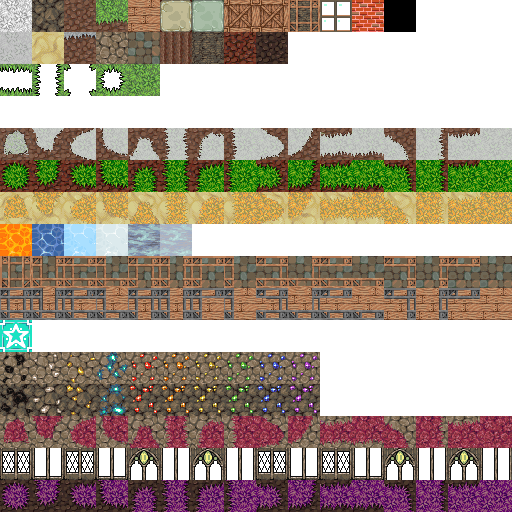
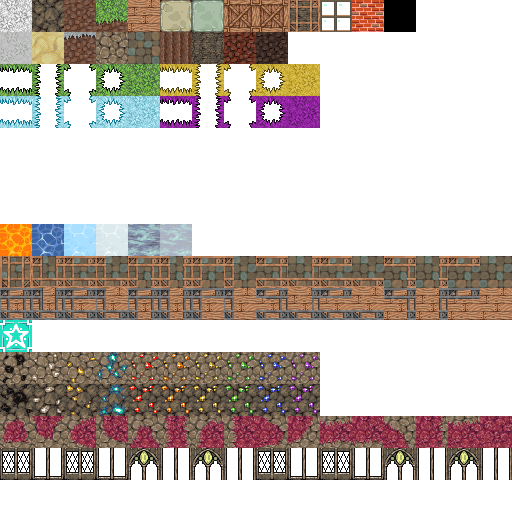
Restore variable grass block types

Changed region(s): [[0.0, 0.125, 1.0, 0.4375], [0.0, 0.9375, 1.0, 1.0]]

diff --git a/DwarfCorp/DwarfCorpXNA/Graphics/Primitives/VoxelListPrimitive.cs b/DwarfCorp/DwarfCorpXNA/Graphics/Primitives/VoxelListPrimitive.cs
@@ -434,25 +434,25 @@ namespace DwarfCorp
                     if (!anyNeighborExplored) vertexTint[faceVertex] = new Color(0.0f, 0.0f, 0.0f, 1.0f);
                 }
 
-                if (V.Type.UseBiomeGrassTint)
-                {
-                    var biomeTints = VoxelHelpers.EnumerateVertexNeighbors2D(V.Coordinate, voxelVertex)
-                        .Select(c => new VoxelHandle(V.Chunk.Manager.ChunkData, c))
-                        .Where(v => v.IsValid)
-                        .Select(v => BiomeLibrary.Biomes[Overworld.Map[(int)(v.Coordinate.X / Chunk.Manager.World.WorldScale), (int)(v.Coordinate.Z / Chunk.Manager.World.WorldScale)].Biome].GrassTint.ToVector4())
-                        .ToArray();
+                //if (V.Type.UseBiomeGrassTint)
+                //{
+                //    var biomeTints = VoxelHelpers.EnumerateVertexNeighbors2D(V.Coordinate, voxelVertex)
+                //        .Select(c => new VoxelHandle(V.Chunk.Manager.ChunkData, c))
+                //        .Where(v => v.IsValid)
+                //        .Select(v => BiomeLibrary.Biomes[Overworld.Map[(int)(v.Coordinate.X / Chunk.Manager.World.WorldScale), (int)(v.Coordinate.Z / Chunk.Manager.World.WorldScale)].Biome].GrassTint.ToVector4())
+                //        .ToArray();
 
-                    var accumulator = Vector4.Zero;
-                    foreach (var tint in biomeTints)
-                        accumulator += tint;
-                    var averageTint = accumulator / biomeTints.Length;
+                //    var accumulator = Vector4.Zero;
+                //    foreach (var tint in biomeTints)
+                //        accumulator += tint;
+                //    var averageTint = accumulator / biomeTints.Length;
 
-                    vertexTint[faceVertex] = new Color(vertexTint[faceVertex].ToVector4() * averageTint);
-                }
-                else
-                {
+                //    vertexTint[faceVertex] = new Color(vertexTint[faceVertex].ToVector4() * averageTint);
+                //}
+                //else
+                //{
                     vertexTint[faceVertex] = new Color(vertexTint[faceVertex].ToVector4() * V.Type.Tint.ToVector4());
-                }
+                //}
             }
 
             if (exploredVerts != 0)

diff --git a/DwarfCorp/DwarfCorpXNA/Voxels/VoxelType.cs b/DwarfCorp/DwarfCorpXNA/Voxels/VoxelType.cs
@@ -104,7 +104,7 @@ namespace DwarfCorp
         public bool IsSurface = false;
         public bool IsInvincible = false;
         public Color Tint = Color.White;
-        public bool UseBiomeGrassTint = false;
+        //public bool UseBiomeGrassTint = false;
                 
         public bool SpawnOnSurface = false;
         public bool IsTransparent = false;
